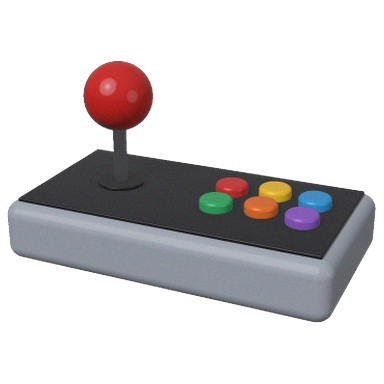
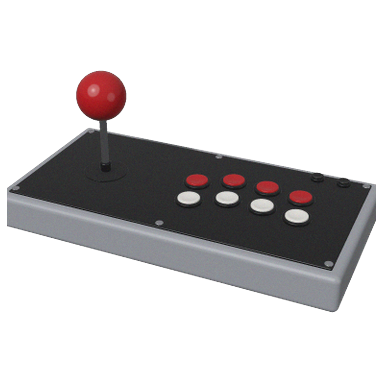
Ports in Fancy Pants: an arcade stick built like a real one
A slim anodised aluminium case with a bevelled edge, a glossy black acrylic
top held by six screws, a red ball-top on a chrome shaft through a dust
washer, eight 30 mm-style buttons in two curved rows (each a rim round a
dished plunger), and two small buttons on the back edge.

Claude-Session: https://claude.ai/code/session_01TGGsTE1DNkb6MQqq6tNzFj

Changed region(s): [[0.0, 0.1562, 1.0, 0.8438]]

diff --git a/tools/genportsfancy.py b/tools/genportsfancy.py
@@ -1,8 +1,11 @@
 #!/usr/bin/env python3
 """Draw res/cards/fancy/PORTS.png, the Ports card in Fancy Pants: an arcade
-stick, rendered (tools/raymarch.py) from no images - the Plain Jane card's
-mark (tools/genportscard.py) as an object: a steel case with a black play
-panel, a red ball-top stick, six buttons in arcade colours.
+stick, rendered (tools/raymarch.py) from no images, as a modern fight stick
+is built rather than as a toy: a slim brushed aluminium case with a bevelled edge,
+a glossy black acrylic top held by six screws, a red ball-top lever on a
+chrome shaft through a dust washer, eight 30 mm-style buttons in two curved
+rows of four, red behind and white in front - each a black rim round a
+dished plunger - and two small buttons on the back edge. No maker's marks.
 
     tools/genportsfancy.py
 """
@@ -17,32 +20,74 @@ import raymarch as rm  # noqa: E402
 ROOT = os.path.dirname(os.path.dirname(os.path.abspath(__file__)))
 OUT = os.path.join(ROOT, "res", "cards", "fancy", "PORTS.png")
 
-M = rm.rot(0, -24, 0)          # turned a little, as the consoles are
-BTN = [(0.35, -0.22, (200, 40, 40)), (0.80, -0.30, (236, 180, 30)), (1.25, -0.22, (40, 140, 210)),
-       (0.35, 0.22, (40, 160, 90)), (0.80, 0.14, (226, 100, 30)), (1.25, 0.22, (130, 80, 190))]
-MATS = [rm.Mat((150, 158, 170), gloss=0.45, spec=0.6),            # 0 case
-        rm.Mat((22, 23, 27), gloss=0.55, spec=0.5),               # 1 panel
-        rm.Mat((205, 208, 214), gloss=0.9, metal=True),           # 2 shaft
-        rm.Mat((196, 28, 24), gloss=0.82, spec=1.2),              # 3 ball
-        rm.Mat((18, 18, 20), gloss=0.3),                          # 4 washer
-        ] + [rm.Mat(c, gloss=0.75, spec=1.0) for _, _, c in BTN]  # 5.. buttons
+M = rm.rot(0, -24, 0)              # turned a little, as the consoles are
+W, D = 2.05, 1.05                  # the case's half width and half depth
+TOP = 0.0                          # the acrylic's top face
+STICK = (-1.12, 0.06)              # the lever, in x and z
+# two rows of four, the upper row's ends lower: the curve of an arcade panel
+ROWS = [[(0.02, -0.12), (0.42, -0.30), (0.84, -0.30), (1.26, -0.24)],
+        [(0.10, 0.30), (0.50, 0.12), (0.92, 0.12), (1.34, 0.18)]]
+BTN = [b for row in ROWS for b in row]
+SCREWS = [(-1.88, -0.86), (0.0, -0.86), (1.88, -0.86), (-1.88, 0.86), (0.0, 0.86), (1.88, 0.86)]
+SMALL = [(1.30, -0.80), (1.62, -0.80)]
+
+RED = (178, 22, 28)
+# The case is anodised aluminium: satin, so lit as a fine pale finish with a
+# sharp highlight on its bevel, where a mirror metal would show the dark floor
+MATS = [rm.Mat((150, 153, 160), gloss=0.55, spec=1.1),         # 0 case, anodised aluminium
+        rm.Mat((10, 10, 12), gloss=0.94, spec=1.3),            # 1 acrylic top
+        rm.Mat((214, 216, 220), gloss=0.93, metal=True),       # 2 chrome: shaft, screws
+        rm.Mat(RED, gloss=0.86, spec=1.3),                     # 3 ball
+        rm.Mat((14, 14, 16), gloss=0.45, spec=0.5),            # 4 washer, rims
+        rm.Mat(RED, gloss=0.72, spec=1.0),                     # 5 red plungers
+        rm.Mat((232, 230, 224), gloss=0.72, spec=1.0),         # 6 white plungers
+        ]
 
 
 def scene(p):
-    q = rm.local(p, (0, -0.25, 0), M)
-    case = rm.box(q - [0, -0.1, 0], (1.75, 0.32, 0.95), 0.16)
-    panel = rm.box(q - [0, 0.235, 0.0], (1.62, 0.02, 0.82), 0.015)
-    shaft = rm.cyl(q - [-0.85, 0.65, 0], 0.07, 0.45)
-    ball = rm.sphere(q - [-0.85, 1.22, 0], 0.36)
-    washer = rm.cyl(q - [-0.85, 0.27, 0], 0.26, 0.018, 0.012)
-    ds = [case, panel, shaft, ball, washer]
-    for x, z, _ in BTN:
-        ds.append(rm.cyl(q - [x, 0.30, z], 0.17, 0.07, 0.045))
-    d = np.stack(ds, -1)
+    q = rm.local(p, (0, -0.1, 0), M)
+    # the case: slim, its top edge bevelled
+    case = rm.box(q - [0, -0.24, 0], (W, 0.22, D), 0.07)
+    bevel = (np.abs(q[..., 0]) + q[..., 1] - (W + 0.02)) / np.sqrt(2)
+    case = np.maximum(case, bevel)
+    bevel = (np.abs(q[..., 2]) + q[..., 1] - (D + 0.02)) / np.sqrt(2)
+    case = np.maximum(case, bevel)
+    # the acrylic, a sheet on top, a little in from the edge
+    acr = rm.box(q - [0, TOP - 0.02, 0], (W - 0.12, 0.02, D - 0.12), 0.012)
+
+    chrome = rm.cyl(q - [STICK[0], 0.36, STICK[1]], 0.042, 0.36, 0.0, axis=1)
+    for x, z in SCREWS:
+        chrome = np.minimum(chrome, rm.cyl(q - [x, TOP + 0.004, z], 0.045, 0.008, 0.006, axis=1))
+    ball = rm.sphere(q - [STICK[0], 1.0, STICK[1]], 0.29)
+    washer = rm.cyl(q - [STICK[0], TOP + 0.01, STICK[1]], 0.27, 0.008, 0.006, axis=1)
+    # the lever's black collar just above the washer
+    washer = np.minimum(washer, rm.cyl(q - [STICK[0], 0.08, STICK[1]], 0.07, 0.06, 0.02, axis=1))
+
+    rims = washer
+    red = np.full(q.shape[:-1], 1e9)
+    blk = np.full(q.shape[:-1], 1e9)
+    for i, (x, z) in enumerate(BTN + SMALL):
+        small = i >= len(BTN)
+        R = 0.09 if small else 0.165
+        c = q - [x, TOP, z]
+        # the rim: a low ring standing on the acrylic
+        rim = np.maximum(rm.cyl(c - [0, 0.02, 0], R, 0.02, 0.012, axis=1),
+                         -rm.cyl(c - [0, 0.03, 0], R * 0.80, 0.04, 0.0, axis=1))
+        rims = np.minimum(rims, rim)
+        # the plunger, its top dished
+        pl = rm.cyl(c - [0, 0.03, 0], R * 0.78, 0.03, 0.01, axis=1)
+        pl = np.maximum(pl, -rm.sphere(c - [0, 0.06 + R * 2.4 - 0.012, 0], R * 2.4))
+        if small:
+            rims = np.minimum(rims, pl)
+        elif i >= 4:
+            blk = np.minimum(blk, pl)
+        else:
+            red = np.minimum(red, pl)
+    d = np.stack([case, acr, chrome, ball, rims, red, blk], -1)
     return d.min(-1), d.argmin(-1)
 
 
 scene.mats = MATS
 
 if __name__ == "__main__":
-    rm.render(scene, OUT, cam=(0.0, 3.4, 8.0), look=(0, 0.15, 0), fov=27)
+    rm.render(scene, OUT, cam=(0.0, 4.2, 7.6), look=(0.0, 0.05, 0), fov=28)
